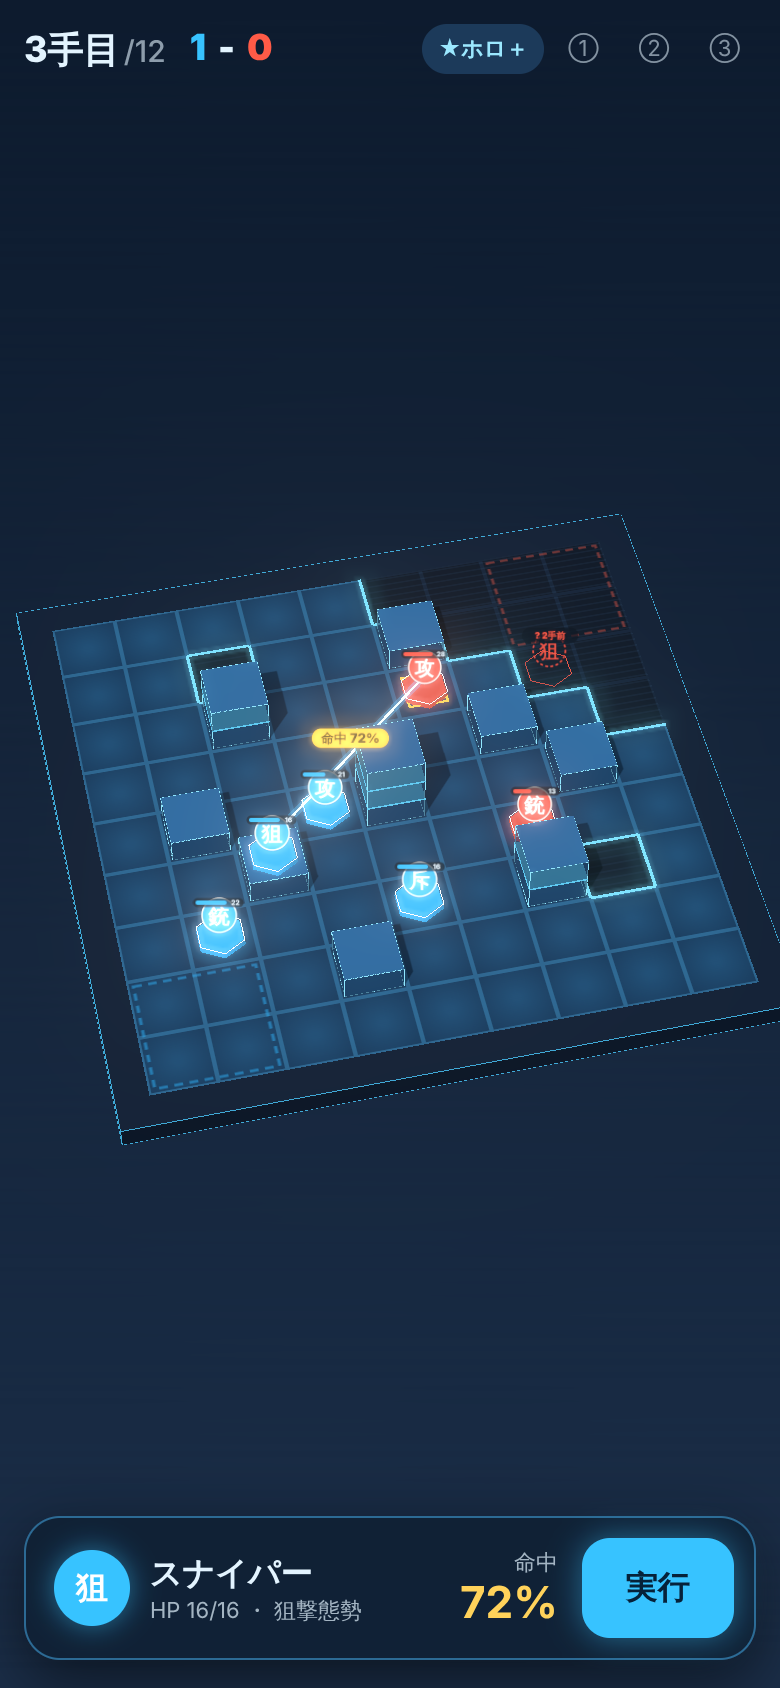
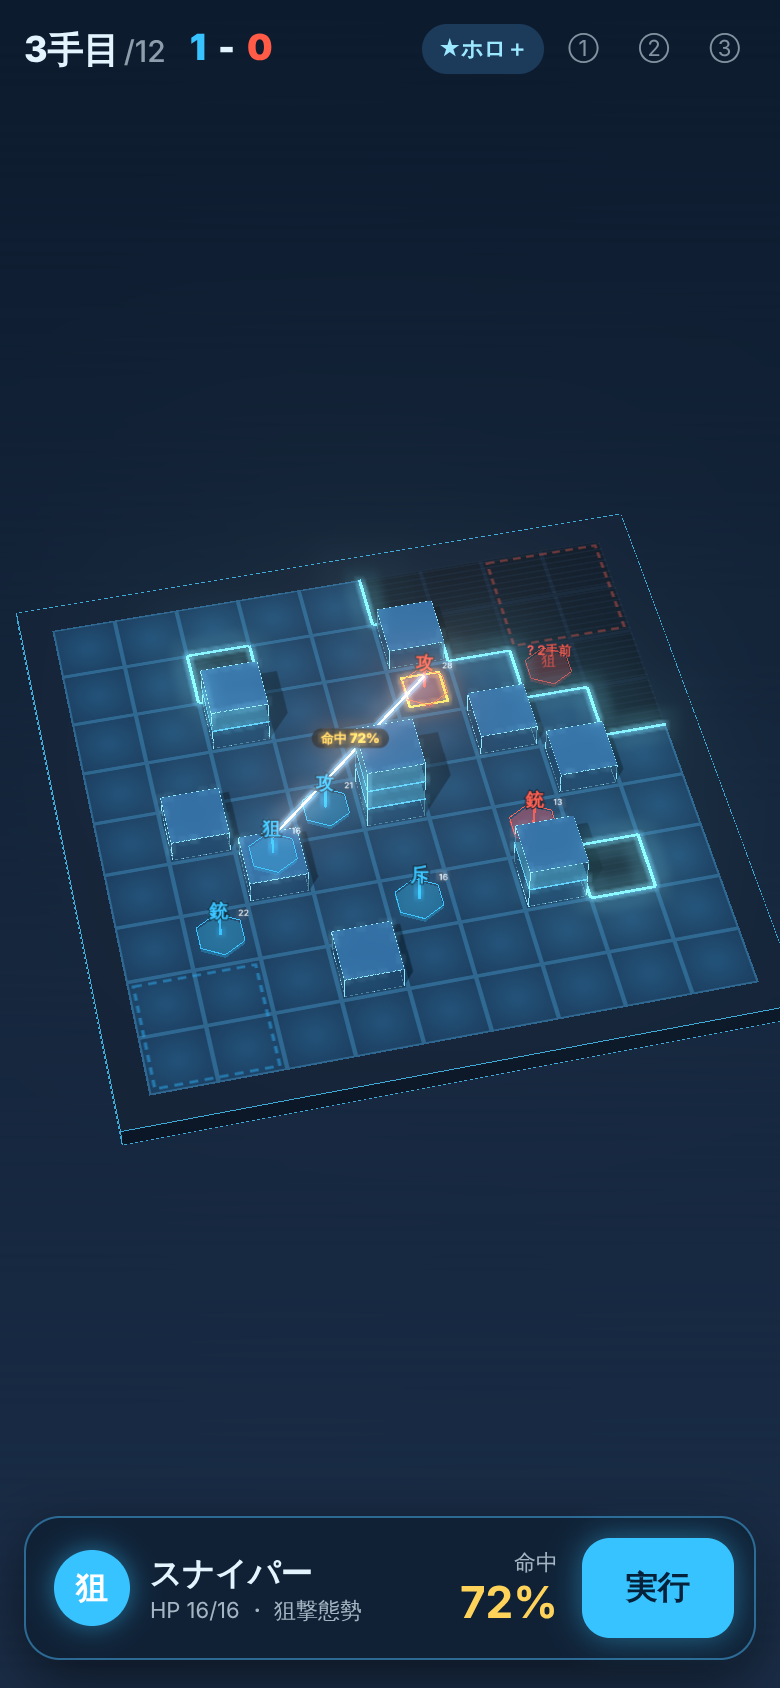
mockups: holo+ uses the original holo pieces (translucent hex plate, light beam, floating glowing kanji)
Claude-Session: https://claude.ai/code/session_01PHVcguePspPpHkDKCArjSN

diff --git a/mockups/main.ts b/mockups/main.ts
@@ -881,92 +881,30 @@ function holo2() {
     scene.add(top)
   }
 
-  // 駒：①ホロの「六角の台座＋光る字」を基本に、字を陣営色の丸に乗せて読みやすくする
-  const token = (p: Piece, ghost = false) =>
-    canvas(160, 160, (g) => {
-      const col = hex(p.side === 0 ? ME : EN)
-      g.beginPath()
-      g.arc(80, 80, 64, 0, Math.PI * 2)
-      if (ghost) {
-        g.setLineDash([12, 9])
-        g.strokeStyle = col
-        g.lineWidth = 7
-        g.stroke()
-      } else {
-        g.fillStyle = col
-        g.fill()
-        g.strokeStyle = 'rgba(255,255,255,0.9)'
-        g.lineWidth = 6
-        g.stroke()
-      }
-      g.fillStyle = ghost ? col : '#ffffff'
-      g.font = '900 78px "Hiragino Sans", system-ui'
-      g.textAlign = 'center'
-      g.textBaseline = 'middle'
-      g.fillText(kanji(p.cls), 80, 86)
-    })
-  const hpBar = (p: Piece) =>
-    canvas(200, 48, (g) => {
-      const col = hex(p.side === 0 ? ME : EN)
-      const max = DEFAULT_RULES.classes[p.cls].hp
-      g.fillStyle = 'rgba(8,18,32,0.85)'
-      g.beginPath()
-      g.roundRect(2, 6, 196, 36, 18)
-      g.fill()
-      g.fillStyle = 'rgba(255,255,255,0.15)'
-      g.beginPath()
-      g.roundRect(12, 16, 120, 16, 8)
-      g.fill()
-      g.fillStyle = p.hp / max > 0.5 ? col : '#ffc247'
-      g.beginPath()
-      g.roundRect(12, 16, Math.max(16, (120 * p.hp) / max), 16, 8)
-      g.fill()
-      g.fillStyle = '#e8f6ff'
-      g.font = '800 26px system-ui'
-      g.textAlign = 'center'
-      g.textBaseline = 'middle'
-      g.fillText(String(p.hp), 166, 25)
-    })
-  const glowTex = canvas(128, 128, (g) => {
-    const gr = g.createRadialGradient(64, 64, 4, 64, 64, 64)
-    gr.addColorStop(0, 'rgba(255,255,255,0.9)')
-    gr.addColorStop(1, 'rgba(255,255,255,0)')
-    g.fillStyle = gr
-    g.fillRect(0, 0, 128, 128)
-  })
+  // 駒：①ホロと同じ「半透明の六角の台座＋光の柱＋浮かぶ光る字」
   for (const p of pieces) {
     const col = p.side === 0 ? ME : EN
     const base = world(p.pos)
     const g = new THREE.Group()
     g.position.copy(base)
-    const rimGeo = new THREE.EdgesGeometry(new THREE.CylinderGeometry(0.38, 0.38, 0.001, 6))
-    if (p.ghost) {
-      // 見失った敵：点線の字＋輪郭だけの台座
-      const rimLine = new THREE.LineSegments(rimGeo, new THREE.LineBasicMaterial({ color: col, transparent: true, opacity: 0.6 }))
-      rimLine.position.y = 0.02
-      g.add(rimLine)
-      scene.add(g)
-      sprite(token(p, true), 0.42, 0.42, world(p.pos, 0.45), 0.8)
-      sprite(label(`? ${p.ghost}手前`, { font: '800 40px system-ui', fill: hex(col), bg: 'rgba(8,18,32,0.85)', w: 260 }), 0.6, 0.22, world(p.pos, 0.8))
-      continue
-    }
-    const pool = new THREE.Mesh(new THREE.PlaneGeometry(1.1, 1.1), new THREE.MeshBasicMaterial({ map: glowTex, color: col, transparent: true, opacity: 0.25, depthWrite: false, blending: THREE.AdditiveBlending }))
-    pool.rotation.x = -Math.PI / 2
-    pool.position.y = 0.006
-    const plate = new THREE.Mesh(
-      new THREE.CylinderGeometry(0.36, 0.39, 0.1, 6),
-      new THREE.MeshStandardMaterial({ color: col, roughness: 0.35, metalness: 0.1, emissive: col, emissiveIntensity: 0.25 }),
-    )
-    plate.position.y = 0.05
-    plate.castShadow = true
-    const rimLine = new THREE.LineSegments(rimGeo, new THREE.LineBasicMaterial({ color: 0xffffff }))
-    rimLine.position.y = 0.101
-    const beam = new THREE.Mesh(new THREE.CylinderGeometry(0.015, 0.015, 0.3, 6), new THREE.MeshBasicMaterial({ color: col }))
-    beam.position.y = 0.25
-    g.add(pool, plate, rimLine, beam)
+    const op = p.ghost ? 0.35 : 1
+    const plate = new THREE.Mesh(new THREE.CylinderGeometry(0.34, 0.38, 0.08, 6), new THREE.MeshBasicMaterial({ color: col, transparent: true, opacity: 0.18 * op }))
+    plate.position.y = 0.04
+    g.add(plate)
+    const rimLine = new THREE.LineSegments(new THREE.EdgesGeometry(new THREE.CylinderGeometry(0.38, 0.38, 0.001, 6)), new THREE.LineBasicMaterial({ color: col, transparent: true, opacity: op }))
+    rimLine.position.y = 0.08
+    g.add(rimLine)
+    const beam = new THREE.Mesh(new THREE.CylinderGeometry(0.02, 0.02, 0.5, 6), new THREE.MeshBasicMaterial({ color: col, transparent: true, opacity: 0.85 * op }))
+    beam.position.y = 0.33
+    if (!p.ghost) g.add(beam)
     scene.add(g)
-    sprite(token(p), 0.42, 0.42, world(p.pos, 0.55))
-    sprite(hpBar(p), 0.5, 0.12, world(p.pos, 0.86))
+    if (p.ghost) {
+      sprite(label(`? ${p.ghost}手前`, { font: '700 46px system-ui', fill: hex(col), w: 320 }), 0.95, 0.29, base.clone().add(new THREE.Vector3(0, 0.45, 0)), 0.85)
+      sprite(label(kanji(p.cls), { font: '900 64px system-ui', fill: hex(col) }), 0.6, 0.23, base.clone().add(new THREE.Vector3(0, 0.2, 0)), 0.45)
+    } else {
+      sprite(label(kanji(p.cls), { font: '900 70px system-ui', fill: hex(col), stroke: '#0a1424' }), 0.66, 0.25, base.clone().add(new THREE.Vector3(0, 0.66, 0)))
+      sprite(label(`${p.hp}`, { font: '700 44px system-ui', fill: '#e3f4ff' }), 0.5, 0.19, base.clone().add(new THREE.Vector3(0.36, 0.5, 0)), 0.9)
+    }
   }
 
   // 射線：光の筋＋照準＋命中率
@@ -984,12 +922,12 @@ function holo2() {
   ret.rotation.x = -Math.PI / 2
   ret.position.copy(world(TARGET.pos, 0.02))
   scene.add(ret)
-  sprite(label(`命中 ${HIT}%`, { font: '900 46px system-ui', fill: '#0d1b2e', bg: '#ffd25a', w: 280 }), 0.8, 0.28, a.clone().lerp(b, 0.5).add(new THREE.Vector3(0, 0.38, 0)))
+  sprite(label(`命中 ${HIT}%`, { font: '900 46px system-ui', fill: '#ffd25a', bg: 'rgba(10,20,36,0.92)', w: 280 }), 0.8, 0.28, a.clone().lerp(b, 0.5).add(new THREE.Vector3(0, 0.38, 0)))
 
   fitCamera(0.22, 0.9)
   const composer = new EffectComposer(renderer)
   composer.addPass(new RenderPass(scene, camera))
-  composer.addPass(new UnrealBloomPass(new THREE.Vector2(innerWidth, innerHeight), 0.45, 0.35, 0.55))
+  composer.addPass(new UnrealBloomPass(new THREE.Vector2(innerWidth, innerHeight), 0.75, 0.4, 0.4))
   composer.addPass(new OutputPass())
   return () => composer.render()
 }
